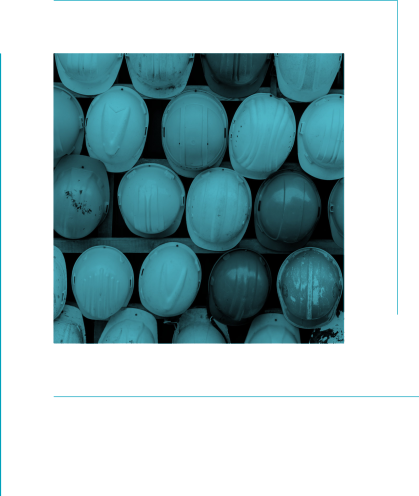
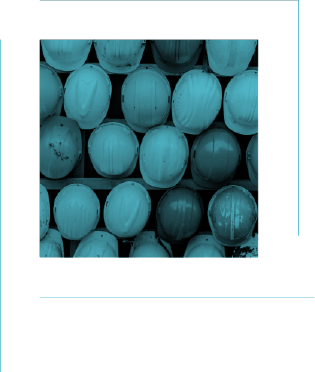
Add files via upload

diff --git a/contacto.css b/contacto.css
@@ -22,17 +22,12 @@
 
 .portada {
   height: 493px;
-  background-image: url("imagenes_contacto/portadaS.png");
+  background-image: url("imagenes_contacto/portadaS.jpg");
   background-size: cover;
 }
 @media only screen and (min-width: 600px) {
   .portada {
-    background-image: url("imagenes_contacto/portadaM.png");
-  }
-}
-@media only screen and (min-width: 1200px) {
-  .portada {
-    background-image: url("imagenes_contacto/portadaL.png");
+    background-image: url("imagenes_contacto/portadaM.jpg");
   }
 }
 .portada .sub-portada {
@@ -47,7 +42,7 @@
 }
 @media only screen and (min-width: 600px) {
   .portada .sub-portada {
-    background-image: url("imagenes_contacto/cascosM.png");
+    background-image: url("imagenes_contacto/cascosM2.png");
     justify-content: flex-end;
   }
 }
@@ -266,7 +261,7 @@ i.fab:hover {
 }
 
 .portada-fondo {
-  background-image: url("imagenes_contacto/portadaL.png");
+  background-image: url("imagenes_contacto/portadaL.jpg");
   background-size: cover;
 }
 
@@ -523,6 +518,10 @@ i.fab:hover {
 }
 .fila3 .columna .terms span {
   font-family: gothamlight;
+}
+.fila3 .columna .terms i.fas {
+  color: white;
+  border: 1px black solid;
 }
 
 #manosML {

diff --git a/contacto.html b/contacto.html
@@ -139,8 +139,8 @@
 
     <div class="fila3">
         <div class="columna">
-            <img src="imagenes_contacto/manosS.jpg" alt="mano" class="img-fluid" id="manosS">
-            <img src="imagenes_contacto/manosML.jpg" alt="manos" class="img-fluid" id="manosML">
+            <img src="imagenes_contacto/manos.jpg" alt="mano" class="img-fluid" id="manosS">
+            <img src="imagenes_contacto/manos.jpg" alt="manos" class="img-fluid" id="manosML">
         </div>
         <div class="columna">
             <form action="/forma.php" class="formulario">
